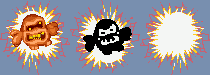
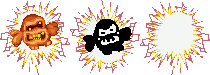
ataque GB arrumado

diff --git a/src/ghomaime/Fase1.java b/src/ghomaime/Fase1.java
@@ -34,7 +34,8 @@ public class Fase1 implements GameStateController {
     protected ArrayList<AtkMario1> atkMario1;
     protected ArrayList<AtkMario2> atkMario2;
     protected ArrayList<AtkGB1> atkGB1;
-    protected ArrayList<AtkGBFinal> finalGB;
+    protected ArrayList<GBFinal1> GBFinal1;
+    //protected ArrayList<AtkGBFinal> finalGB;
     protected Player1Teste player1;
     protected Player2Teste player2;
 
@@ -48,6 +49,8 @@ public class Fase1 implements GameStateController {
         this.atkMario1 = new ArrayList<AtkMario1>();
         this.atkMario2 = new ArrayList<AtkMario2>();
         this.atkGB1 = new ArrayList<AtkGB1>();
+        this.GBFinal1 = new ArrayList<GBFinal1>();
+        //this.finalGB = new ArrayList<AtkGBFinal>();
         this.ghostBuster = new GhostBuster();
         this.megaman = new Megaman();
         this.mario = new Mario();
@@ -92,9 +95,12 @@ public class Fase1 implements GameStateController {
         for (AtkGB1 atk : this.atkGB1) {
             atk.persegue();
         }
-        for (AtkGBFinal finalGB : this.finalGB) {
-            finalGB.step(timeElapsed);
+        for (GBFinal1 atk : this.GBFinal1) {
+            atk.step(timeElapsed);
         }
+//        for (AtkGBFinal finalGB : this.finalGB) {
+//            finalGB.step(timeElapsed);
+//        }
         
 
         this.atacaMegaman();
@@ -150,9 +156,12 @@ public class Fase1 implements GameStateController {
         for (GameObject gameObject : this.atkGB1) {
             gameObject.draw(g);
         }
-        for (AtkGBFinal finalGB : this.finalGB) {
-            finalGB.draw(g);
+        for (GameObject gameObject : this.GBFinal1) {
+            gameObject.draw(g);
         }
+//        for (AtkGBFinal finalGB : this.finalGB) {
+//            finalGB.draw(g);
+//        }
 
         this.mostraBarraVida1(g);
         this.mostraBarraVida2(g);
@@ -329,7 +338,8 @@ public class Fase1 implements GameStateController {
         for (AtkGB1 atk1 : this.atkGB1) {
             if (atk1.temColisao(p.getRetangulo())) {
                 p.perdeVida(atk1.getDano());
-                this.finalGB.add( new );
+                this.GBFinal1.add( new GBFinal1(p.getX(), p.getY()));
+                //this.finalGB.add( new GBFinal1(p.getX(), p.getY()));
             }
         }
         }

diff --git a/src/Ataques/AtkGBFinal.java b/src/Ataques/AtkGBFinal.java
@@ -26,7 +26,7 @@ public class AtkGBFinal extends Ataque{
     }
 
     public void step(long timeElapsed) {
-        if(this.frameElapsed >= 4){
+        if(this.frame >= 4){
             return;
         }
         
@@ -40,7 +40,7 @@ public class AtkGBFinal extends Ataque{
     }
 
     public void draw(Graphics g) {
-        this.spriteAtual.draw(g, this.x, this.y);
+        this.finalAtual.draw(g, this.x - 20, this.y - 40);
     }
 
     

diff --git a/src/Ataques/AtkGB1.java b/src/Ataques/AtkGB1.java
@@ -23,7 +23,7 @@ public class AtkGB1 extends Ataque {
     int frame;
 
     public AtkGB1(int x, int y, GameObject o) {
-        this.setDano(5);
+        this.setDano(1);
         this.perseguido = o;
         this.desativado = false;
 

diff --git a/src/Ataques/GBFinal1.java b/src/Ataques/GBFinal1.java
@@ -25,4 +25,6 @@ public class GBFinal1 extends AtkGBFinal{
         }    
     }
     
+    
+    
 }
